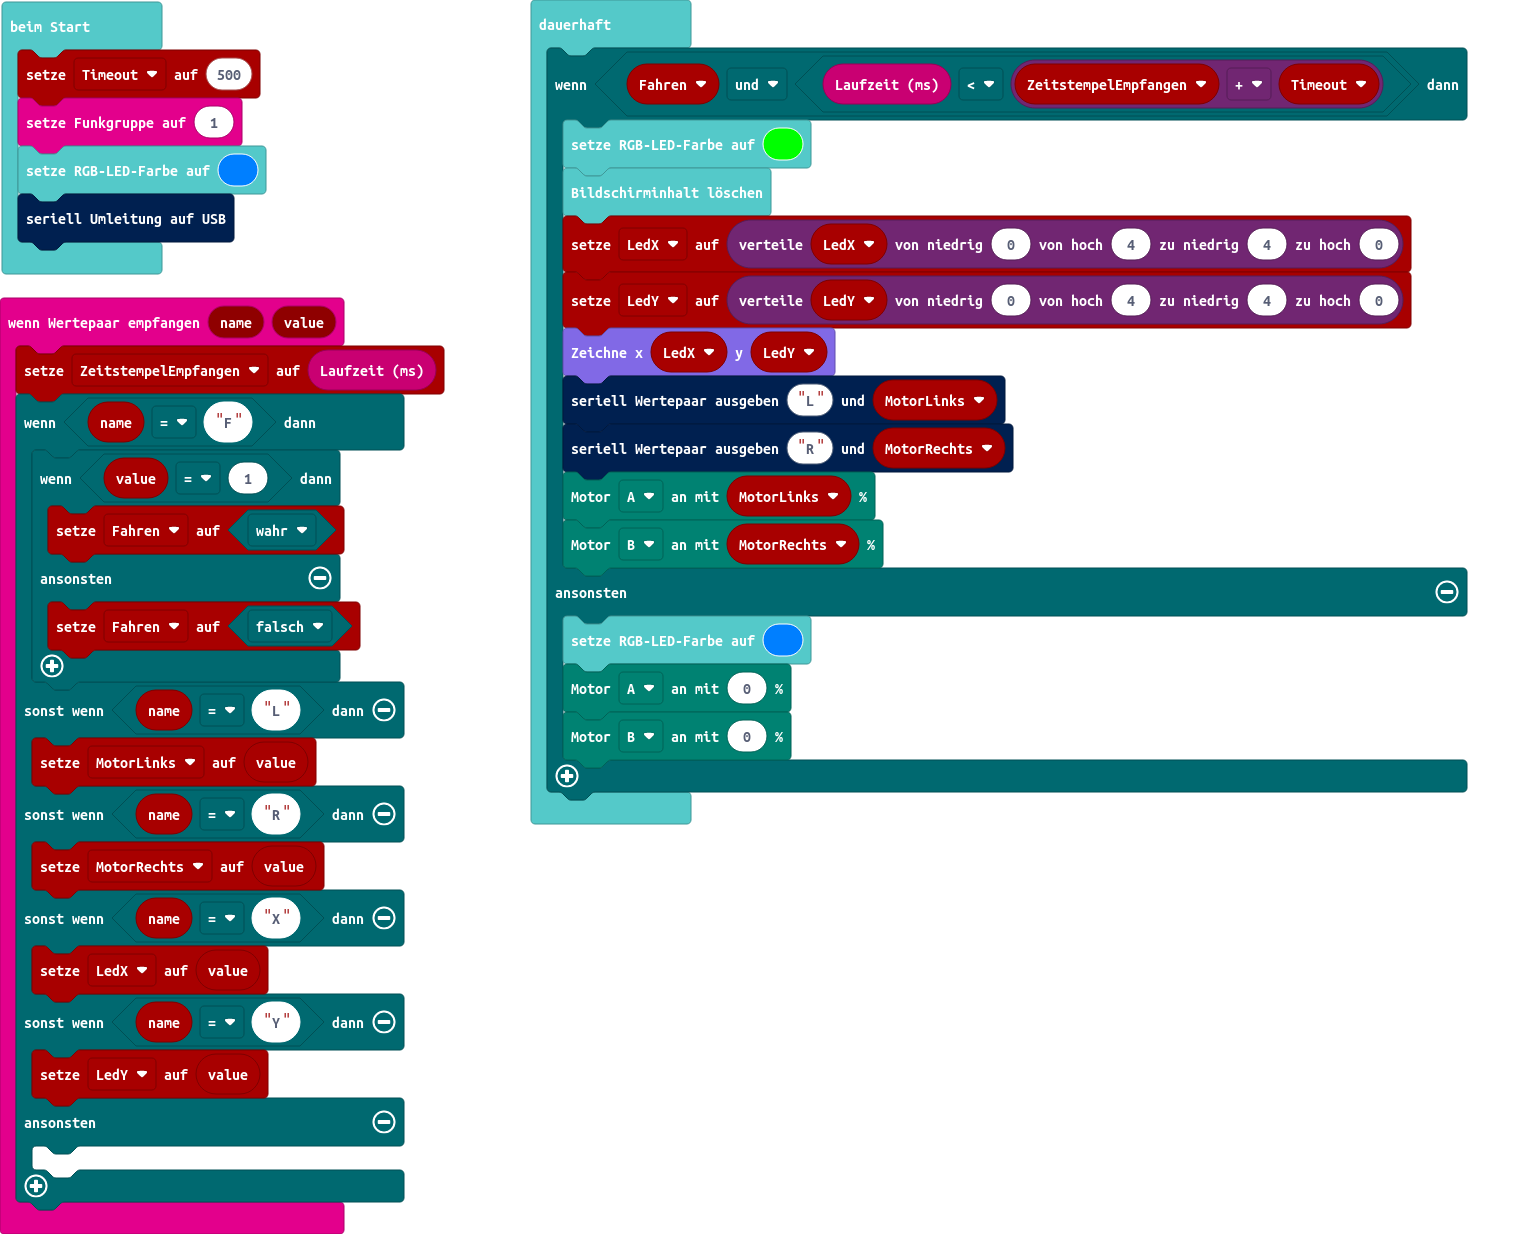
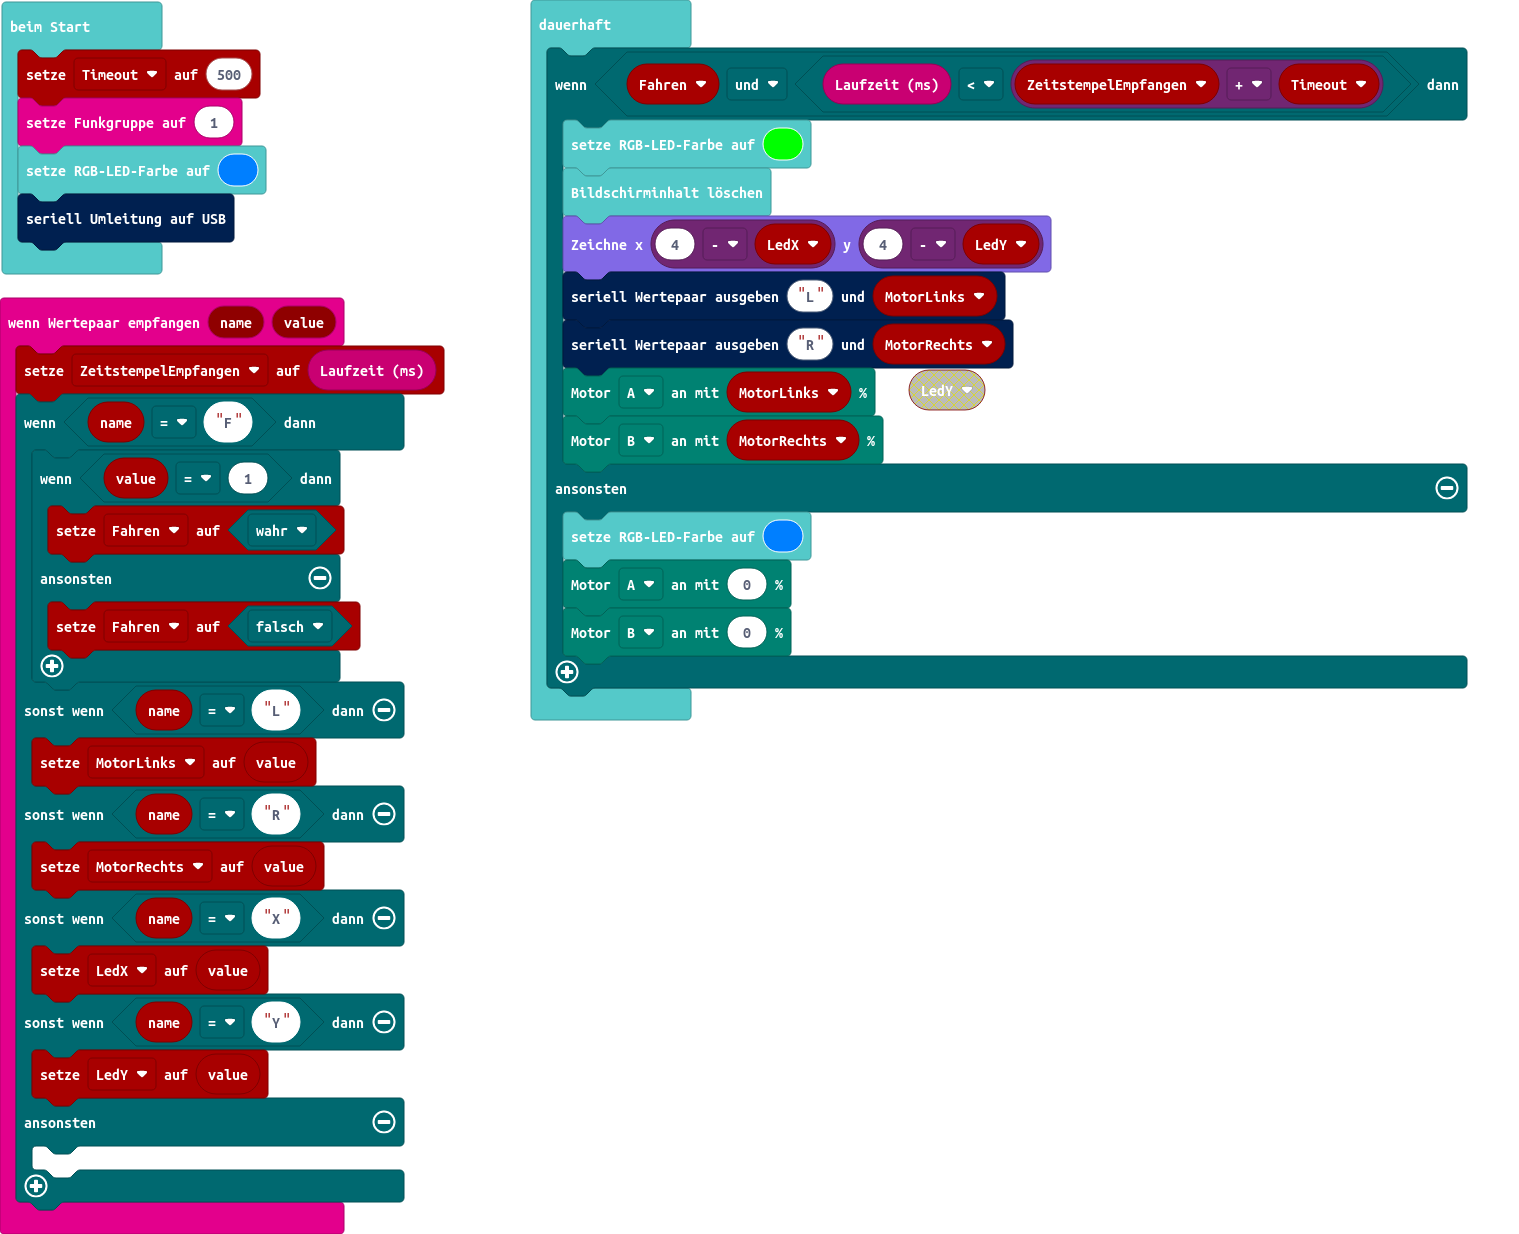
Aktualisiere main.blocks, main.ts

Changed region(s): [[0.3404, 0.154, 0.9901, 0.6775]]

diff --git a/main.ts b/main.ts
@@ -32,9 +32,7 @@ basic.forever(function () {
     if (Fahren && input.runningTime() < ZeitstempelEmpfangen + Timeout) {
         basic.setLedColor(0x00ff00)
         basic.clearScreen()
-        LedX = Math.map(LedX, 0, 4, 4, 0)
-        LedY = Math.map(LedY, 0, 4, 4, 0)
-        led.plot(LedX, LedY)
+        led.plot(4 - LedX, 4 - LedY)
         serial.writeValue("L", MotorLinks)
         serial.writeValue("R", MotorRechts)
         motors.dualMotorPower(Motor.A, MotorLinks)
